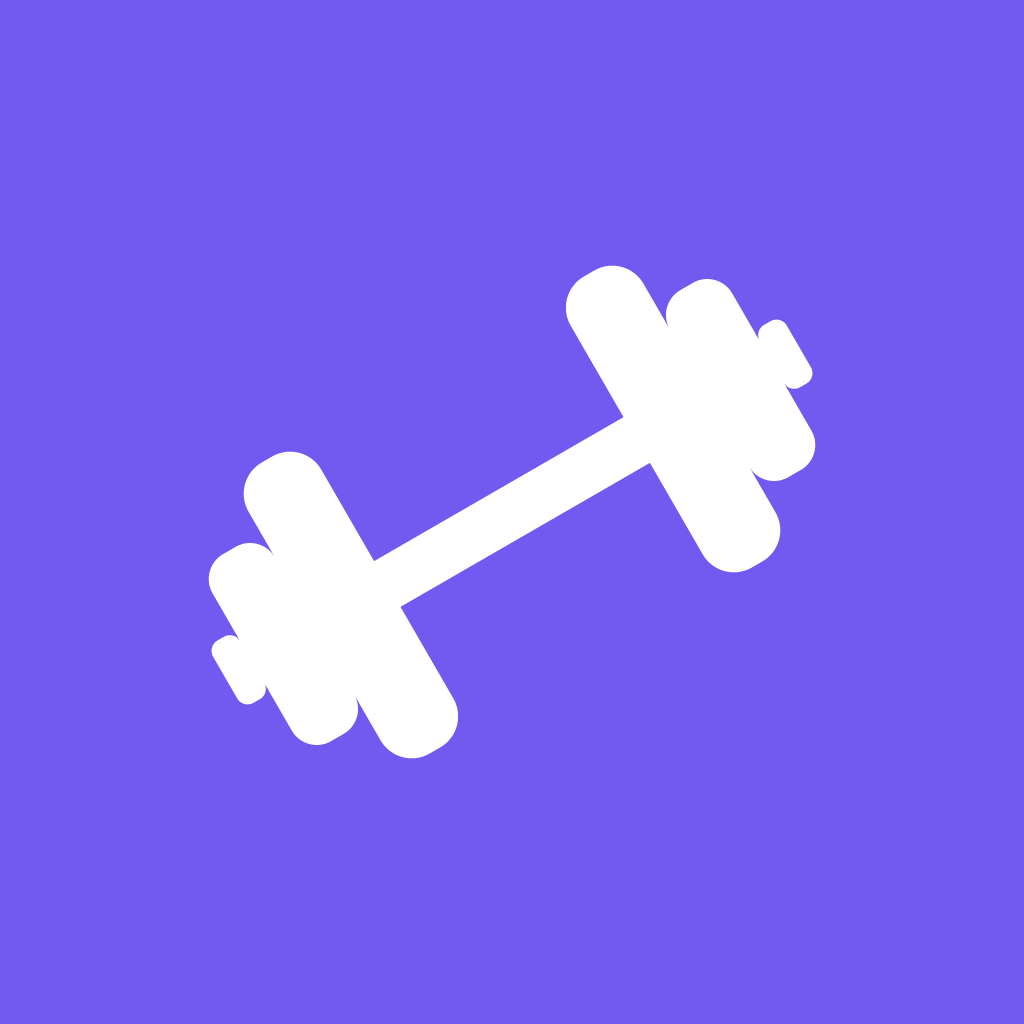
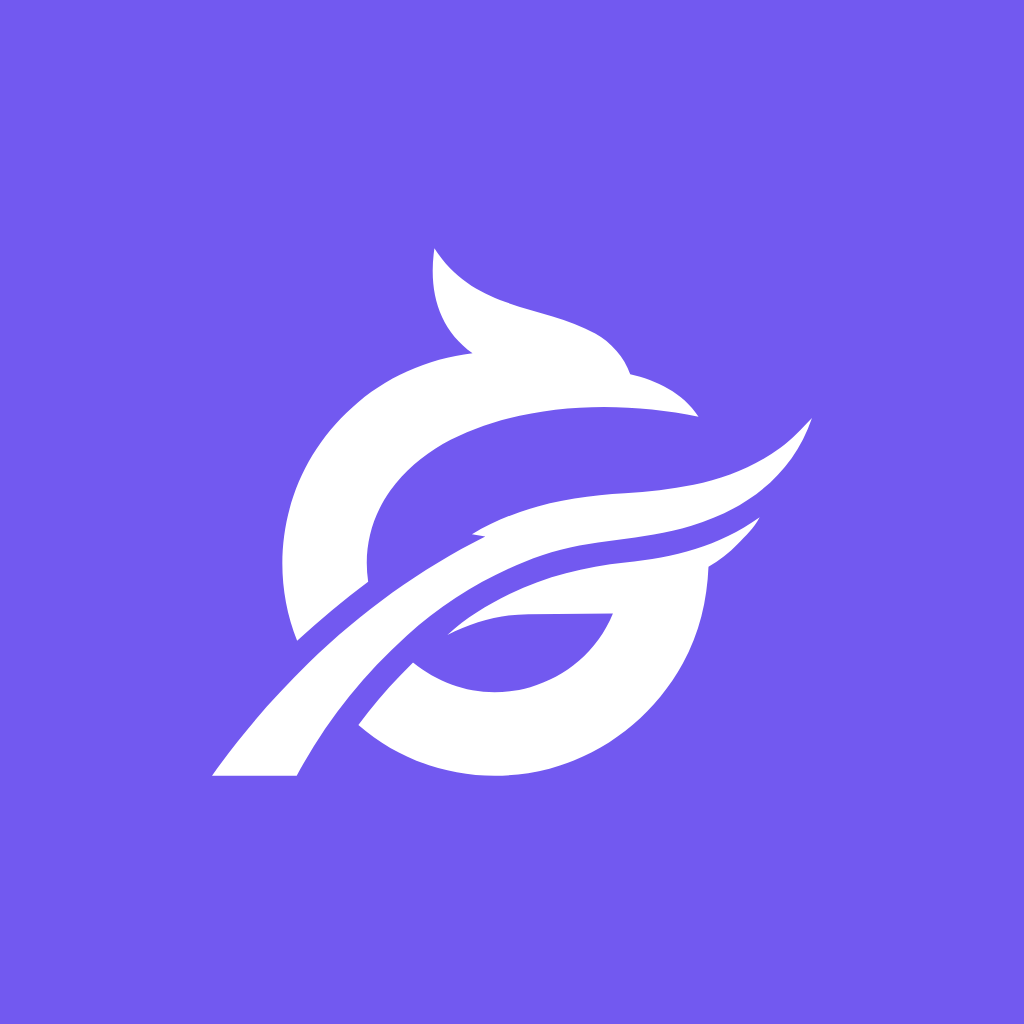
feat: usa a marca do app no BrandMark
Troca o halter genérico pelo ícone do GralhaFit (assets/brand/icon.png),
que aparece nas boas-vindas e no cabeçalho das telas principais.

Changed region(s): [[0.1875, 0.25, 0.8125, 0.7812]]

diff --git a/src/components/ui/index.tsx b/src/components/ui/index.tsx
@@ -1,6 +1,6 @@
-import { Check, Dumbbell, Eye, EyeOff, type LucideIcon } from 'lucide-react-native'
+import { Check, Eye, EyeOff, type LucideIcon } from 'lucide-react-native'
 import { useState, type ReactNode } from 'react'
-import { ActivityIndicator, Pressable, Text, TextInput, View, type TextInputProps } from 'react-native'
+import { ActivityIndicator, Image, Pressable, Text, TextInput, View, type TextInputProps } from 'react-native'
 import { SafeAreaView, type Edge } from 'react-native-safe-area-context'
 import { useTheme } from '../../context/ThemeContext'
 import { colors } from '../../lib/theme'
@@ -16,12 +16,15 @@ export function Screen({ children, edges = ['top'] }: { children: ReactNode; edg
   )
 }
 
-/** Quadrado roxo com halter: a "marca" que abre o cabeçalho das telas principais. */
+/** Ícone do app (gralha branca no quadrado roxo): a marca que abre o cabeçalho das telas principais. */
 export function BrandMark({ size = 32 }: { size?: number }) {
   return (
-    <View style={{ width: size, height: size, borderRadius: size * 0.3 }} className="items-center justify-center bg-primary">
-      <Dumbbell size={size * 0.6} color="#fff" />
-    </View>
+    <Image
+      source={require('../../../assets/brand/icon.png')}
+      style={{ width: size, height: size, borderRadius: size * 0.3 }}
+      resizeMethod="resize"
+      accessible={false}
+    />
   )
 }
 
